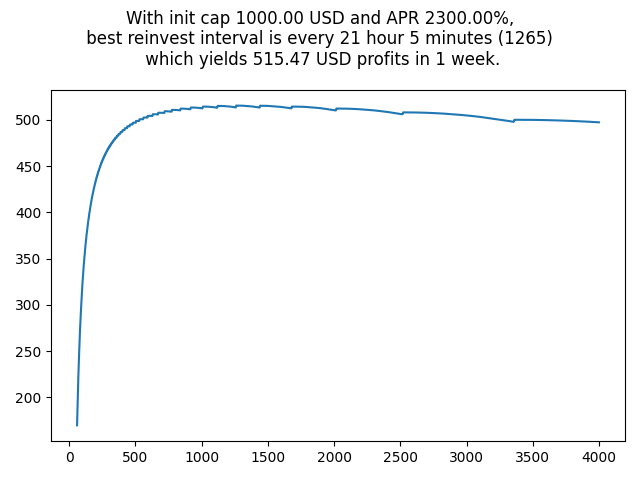
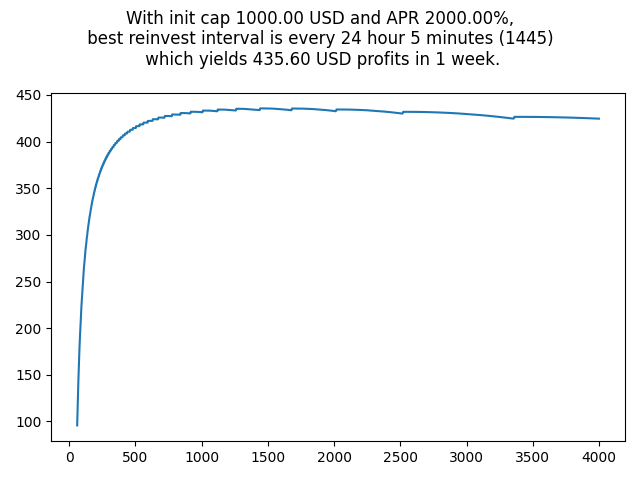
bug fix, update README

diff --git a/VVS_Profit_Simulator.py b/VVS_Profit_Simulator.py
@@ -2,7 +2,7 @@ import matplotlib.pyplot as plt
 
 class VVS_Simulator():
     def __init__(self, init_capital, apr, reinvest_interval, \
-                swap_fee_rate=0.003, reinvest_fix_cost=1.8, harvest_collect_fee=1.0, remove_LP_fee=2.0):
+                swap_fee_rate=0.003, swap_fee_rate, reinvest_fix_cost=2.3, harvest_collect_fee=1.0, remove_LP_fee=2.0):
                 #  swap_fee_rate=0.0, reinvest_fix_cost=0.0, harvest_collect_fee=0.0, remove_LP_fee=0.0):
         '''
         time unit = minute
@@ -29,7 +29,7 @@ class VVS_Simulator():
             self.reinvest()
 
     def reinvest(self):
-        earning = self.harvest - self.reinvest_fix_cost - self.harvest * self.swap_fee_rate
+        earning = self.harvest - self.reinvest_fix_cost - self.harvest * 0.5 * self.swap_fee_rate
         self.harvest = 0.0
         self.capital += earning
     
@@ -41,8 +41,8 @@ class VVS_Simulator():
         return total_earned
 
 ############ Param ############
-INITIAL_CAPITAL = 8000.0
-APR_PERCENTAGE = 2300.0
+INITIAL_CAPITAL = 100000.0
+APR_PERCENTAGE = 2000.0
 ###############################
 
 simulators = []

diff --git a/README.md b/README.md
@@ -6,7 +6,7 @@ Script to find the best fixed reinvestment (harvest & put back) interval for VVS
 
 <img src="https://raw.githubusercontent.com/eric19960304/vvs-finance-profit-simulator/main/demo/8000.png">
 
-Which means if you invest 8K USD in [VVS Finance](https://vvs.finance/farms), and the current APR for VVS-USDC are 2300%, then the best <b>fixed</b> interval to harvest is every 439 minutes, and [swap](https://vvs.finance/swap) half of the harvested earning to USDC, [convert](https://vvs.finance/add) them to LP tokens, and stake them back to the pool in the [farm](https://vvs.finance/farms). In this way, you will earn around 4311.83 USD after 1 week!
+Which means if you invest 8K USD in [VVS Finance](https://vvs.finance/farms), and the current APR for VVS-USDC are 2000%, then the best <b>fixed</b> interval to harvest is every 531 minutes, and [swap](https://vvs.finance/swap) half of the harvested earning to USDC, [convert](https://vvs.finance/add) them to LP tokens, and stake them back to the pool in the [farm](https://vvs.finance/farms). In this way, you will earn around 3643.63 USD after 1 week!
 
 As you can see at the examples section below, the higher the capital, the shorter the best fixed reinvestment interval. So to optimize the the profit for large capital, the reinvestment interval should be decreased over time. One way to do it may be update the param (cap & APR) of this script and find again the best fixed reinvestment interval.
 
@@ -26,3 +26,5 @@ python VVS_Profit_Simulator.py
 <img src="https://raw.githubusercontent.com/eric19960304/vvs-finance-profit-simulator/main/demo/3000.png">
 
 <img src="https://raw.githubusercontent.com/eric19960304/vvs-finance-profit-simulator/main/demo/16000.png">
+
+<img src="https://raw.githubusercontent.com/eric19960304/vvs-finance-profit-simulator/main/demo/100000.png">
